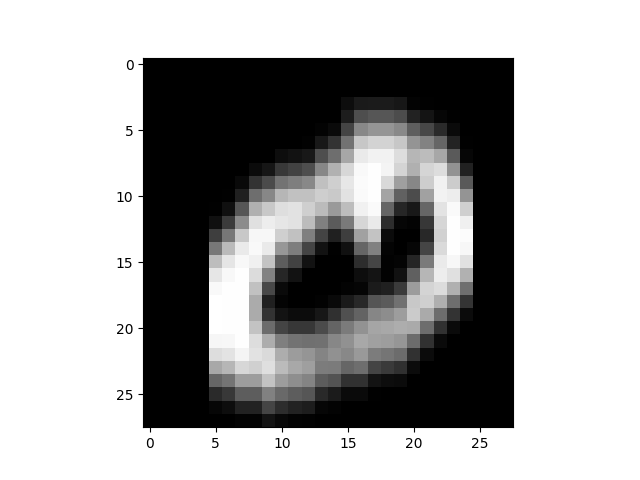
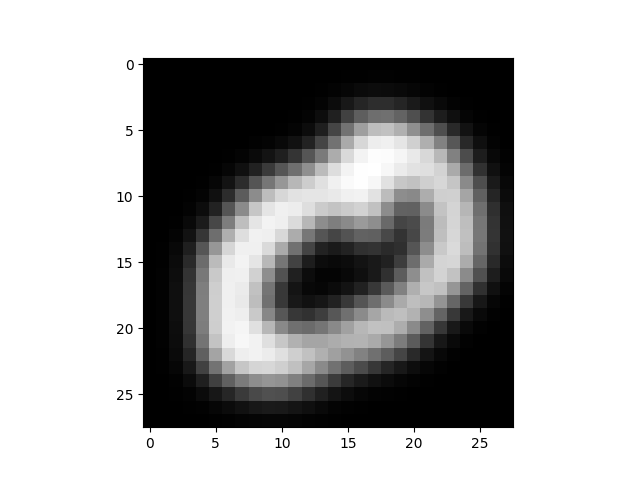
Replace our convolution with scipy's built in

Changed region(s): [[0.2812, 0.2188, 0.7812, 0.875]]

diff --git a/src/main.py b/src/main.py
@@ -7,6 +7,7 @@ import numpy as np
 import matplotlib
 matplotlib.use("TkAgg")
 from scipy import signal
+from scipy.ndimage import gaussian_filter
 
 from src.dataset import build_dataset
 
@@ -32,15 +33,10 @@ def smooth(image, noise=0.5, proper_convolution=False):
     # with random numbers from a normal distribution with mean 0 and variance 1.
     if not proper_convolution:
         return image + torch.randn_like(image) * noise
-    else: # https://scipy-lectures.org/intro/scipy/auto_examples/solutions/plot_image_blur.html
-        # First a 1-D  Gaussian
-        t = np.linspace(-3, 3, 6)
-        bump = np.exp(-0.1*t**2)
-        bump /= np.trapz(bump) # normalize the integral to 1
-
-        # make a 2-D kernel out of it
-        kernel = bump[:, np.newaxis] * bump[np.newaxis, :]
-        return signal.fftconvolve(image, kernel[:, :, np.newaxis], mode='same')
+    else:
+        # https://scipy-lectures.org/intro/scipy/auto_examples/solutions/plot_image_blur.html
+        # or: https://docs.scipy.org/doc/scipy/reference/generated/scipy.ndimage.gaussian_filter.html
+        return gaussian_filter(image, sigma=1.5)
 
 def main():
     config = Config()
